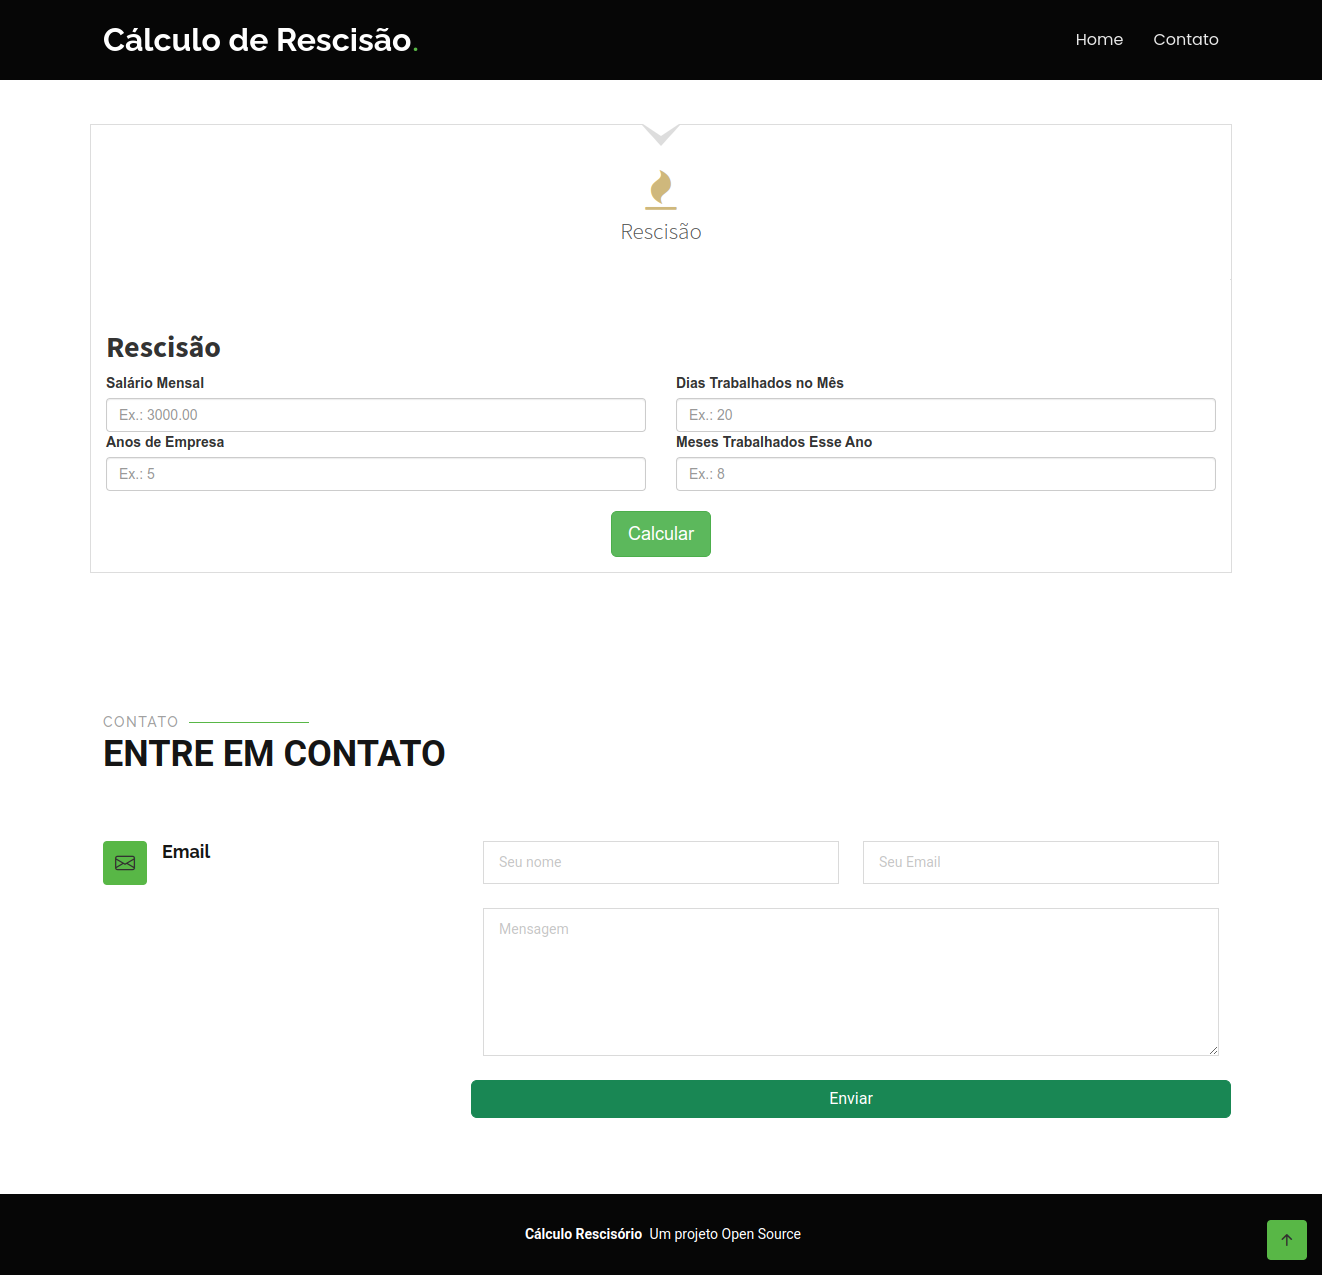
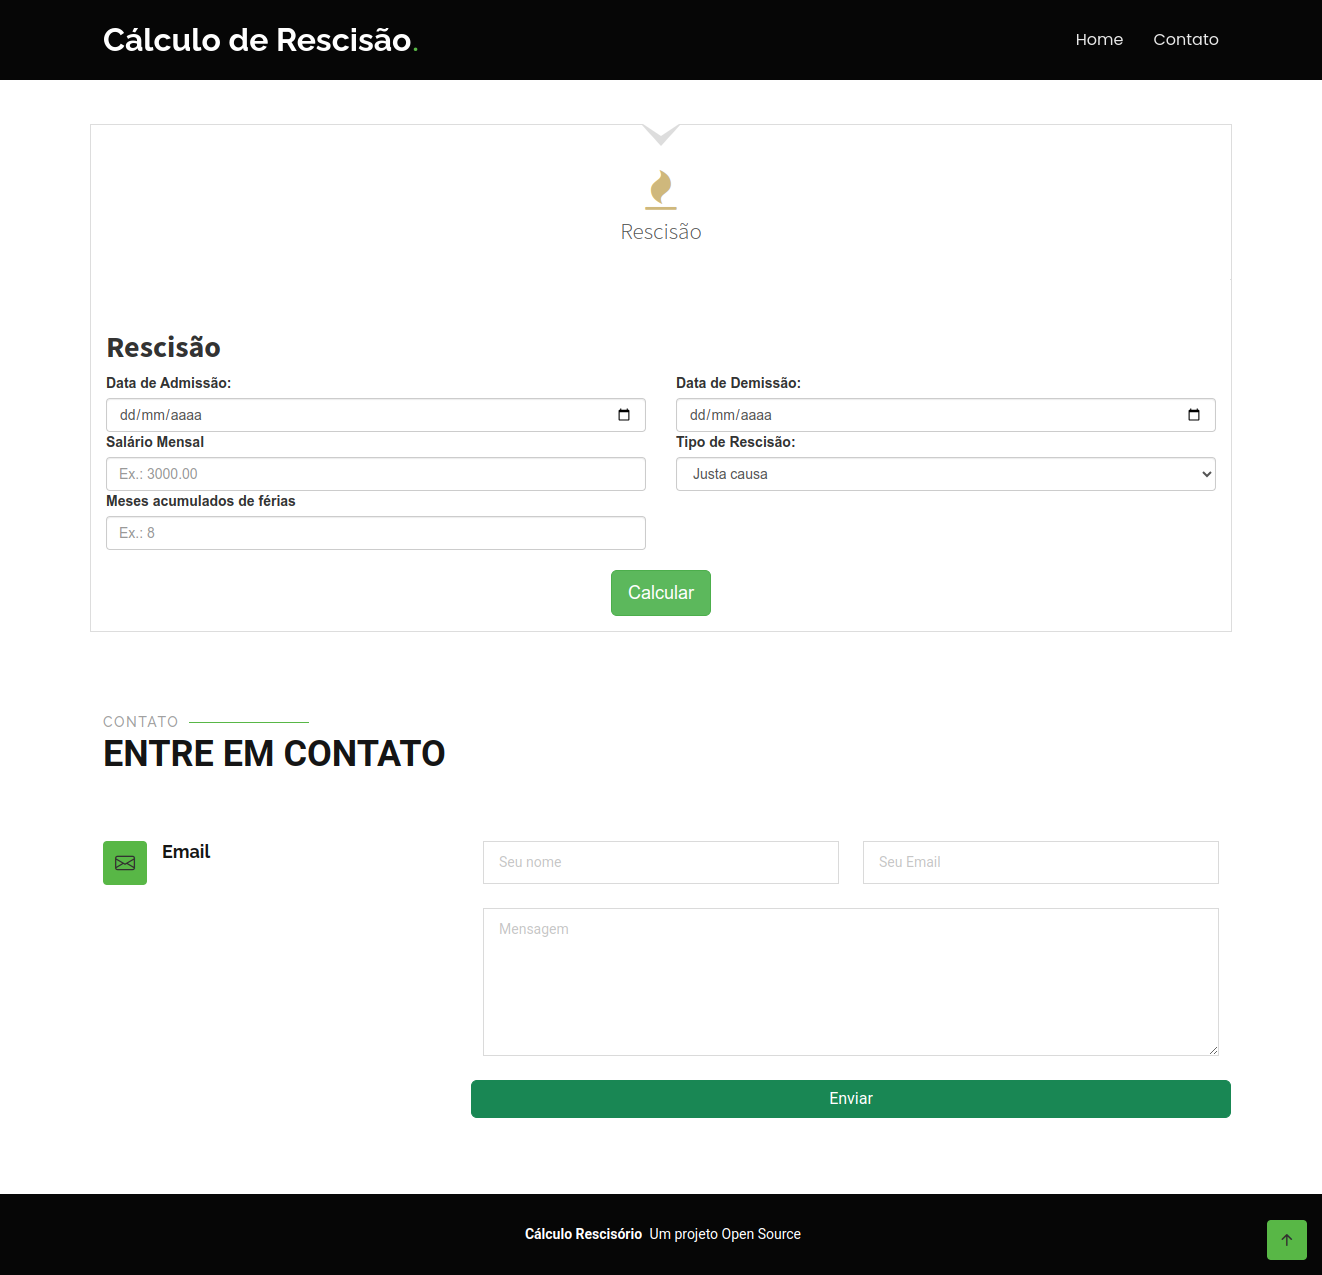
Frontend

Changed region(s): [[0.4342, 0.2753, 0.6513, 0.4894], [0.093, 0.2753, 0.2171, 0.4282]]

diff --git a/frontend/tabs/index.php b/frontend/tabs/index.php
@@ -70,30 +70,41 @@
 												<h2>Rescisão</h2>
 											   
 											</div>
+											
+											<!-- Input para Data de Admissão -->
+											<div class="col-md-6">
+												<label for="diasTrabalhados" class="form-label">Data de Admissão:</label>
+												<input type="date" class="form-control" id="dataAdmissao" name="dataAdmissao" placeholder="" required>
+											</div>
+											
+											<!-- Input para Data de Demissão -->
+											<div class="col-md-6">
+												<label for="diasTrabalhados" class="form-label">Data de Demissão:</label>
+												<input type="date" class="form-control" id="dataDemissao" name="dataDemissao" placeholder="" required>
+											</div>
 
 											<!-- Input para Salário Mensal -->
 											<div class="col-md-6">
 												<label for="salarioMensal" class="form-label">Salário Mensal</label>
 												<input type="number" class="form-control" id="salarioMensal" name="salarioMensal" placeholder="Ex.: 3000.00" step="0.01" required>
+											</div>											
+
+											<!-- Input para Tipos de Rescisão -->
+											<div class="col-md-6">
+												<label for="tipoRescisao" class="form-label">Tipo de Rescisão:</label>
+												<select id="tipoRescisao" class="form-control">
+													<option value="justa_causa">Justa causa</option>
+													<option value="sem_justa_causa">Sem justa causa</option>
+													<option value="se_demitiu">Se demitiu</option>
+												</select>
 											</div>
 
-											<!-- Input para Dias Trabalhados no Mês -->
+											<!-- Input para meses acumulados de férias-->
 											<div class="col-md-6">
-												<label for="diasTrabalhados" class="form-label">Dias Trabalhados no Mês</label>
-												<input type="number" class="form-control" id="diasTrabalhados" name="diasTrabalhados" placeholder="Ex.: 20" required>
+												<label for="mesesAcumuladosFerias" class="form-label">Meses acumulados de férias</label>
+												<input type="number" class="form-control" id="mesesAcumuladosFerias" name="mesesAcumuladosFerias" placeholder="Ex.: 8" required>
 											</div>
-
-											<!-- Input para Anos de Empresa -->
-											<div class="col-md-6">
-												<label for="anosDeEmpresa" class="form-label">Anos de Empresa</label>
-												<input type="number" class="form-control" id="anosDeEmpresa" name="anosDeEmpresa" placeholder="Ex.: 5" required>
-											</div>
-
-											<!-- Input para Meses Trabalhados Esse Ano -->
-											<div class="col-md-6">
-												<label for="mesesTrabalhados" class="form-label">Meses Trabalhados Esse Ano</label>
-												<input type="number" class="form-control" id="mesesTrabalhados" name="mesesTrabalhados" placeholder="Ex.: 8" required>
-											</div>
+											
 
 											<div class="col-md-12 text-center">
 												<div class="loading" style="display:none;">Carregando</div>
@@ -173,34 +184,35 @@
 
 <script>
 $(document).ready(function() {
-
     $('.btnCalcular').click(function(e) {
         e.preventDefault(); // Impede o recarregamento da página
 
         // Validação dos campos
-        if ($('#salarioMensal').val() === "" || 
-            $('#diasTrabalhados').val() === "" || 
-            $('#anosDeEmpresa').val() === "" || 
-            $('#mesesTrabalhados').val() === "") {
+        if ($('#dataAdmissao').val() === "" || 
+            $('#dataDemissao').val() === "" || 
+            $('#salarioMensal').val() === "" || 
+            $('#tipoRescisao').val() === "" ||
+            $('#mesesAcumuladosFerias').val() === "") {
             alert("Por favor, preencha todos os campos.");
             return; // Interrompe a função caso algum campo esteja vazio
         }
 
         const dados = {
+            dataAdmissao: $('#dataAdmissao').val(),
+            dataDemissao: $('#dataDemissao').val(),
             salarioMensal: $('#salarioMensal').val(),
-            diasTrabalhados: $('#diasTrabalhados').val(),
-            anosDeEmpresa: $('#anosDeEmpresa').val(),
-            mesesTrabalhados: $('#mesesTrabalhados').val(),
+            tipoRescisao: $('#tipoRescisao').val(),
+            mesesAcumuladosFerias: $('#mesesAcumuladosFerias').val()
         };
 
         $.ajax({
             url: '/', // Endereço da requisição POST
             method: 'POST',
-            data: dados, // Sem JSON.stringify, para enviar como form data
+            data: dados, // Envia os dados como form data
             success: function(response) {
                 console.log('sucesso');
                 $('.bloco_resultado').css('display', 'block');
-                $('.resultado').text('R$ '+response.valor);
+                $('.resultado').text('R$ ' + response.valor);
             },
             error: function(err) {
                 console.log('erro');
@@ -208,8 +220,8 @@ $(document).ready(function() {
             }
         });
     });
-
 });
+
 
 
 </script>
